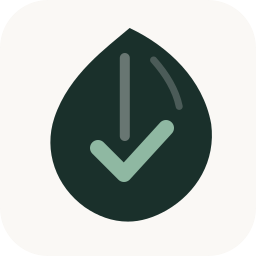
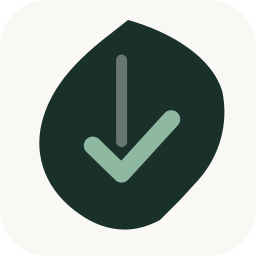
Tighten journey friction, pack review checklist, verify paste, and leaf mark.
Save/resume drafts mid-flow, clarify policy include vs skip, and make the mulberry check read as the vein ending at favicon size.

diff --git a/verify.html b/verify.html
@@ -18,7 +18,7 @@
 <header class="site-header">
   <div class="container-wide">
     <a class="wordmark" href="/">
-      <svg class="logo-mark" viewBox="0 0 32 32" aria-hidden="true" fill="none"><path d="M16.2 2.8c-2.8 2.4-7.6 5.8-9.4 11.2-1.4 4.2.2 8.6 3.8 11.2 1.6 1.1 3.4 1.8 5.4 1.8 1.6 0 3.2-.5 4.8-1.4 3.8-2.2 6.2-6.2 5.6-10.8C25.6 9.2 21.2 5.2 16.2 2.8z" fill="currentColor"/><path d="M15.6 7.2v9.6" stroke="currentColor" stroke-width="1.4" stroke-linecap="round" opacity="0.35"/><path class="logo-check" d="M12.2 17.6l3.2 3.2 5.2-5.6" stroke-width="2.2" stroke-linecap="round" stroke-linejoin="round"/></svg>
+      <svg class="logo-mark" viewBox="0 0 32 32" aria-hidden="true" fill="none"><path d="M16 2.5c-3.2 2.6-8.8 6.2-10.6 12.2-1.5 5 .6 9.4 4.6 12.1 1.7 1.2 3.6 1.9 5.6 1.9 1.4 0 2.9-.4 4.4-1.2L22.5 25l2.2-2.4c2.8-3.1 3.9-7.2 3.1-11.1C26.6 7.2 21.4 4 16 2.5z" fill="currentColor"/><path d="M15.2 7.5v10.2" stroke="currentColor" stroke-width="1.4" stroke-linecap="round" opacity="0.35"/><path class="logo-check" d="M11.6 18.2l3.6 3.5 6.2-6.8" stroke-width="2.4" stroke-linecap="round" stroke-linejoin="round"/></svg>
       <span class="wordmark-text">Morea<span class="article4">Evidence Pack</span></span>
     </a>
     <nav class="site-nav">
@@ -38,6 +38,9 @@
       <p style="margin:0;">Drop <code>evidence-pack.json</code> here, or choose a file</p>
       <input type="file" id="pack-file" accept="application/json,.json">
     </div>
+    <label for="pack-paste" style="margin-top:16px;display:block;">Or paste JSON</label>
+    <textarea id="pack-paste" rows="6" placeholder='{ "product": "Morea Evidence Pack", ... }' style="width:100%;font-family:var(--mono);font-size:0.78rem;"></textarea>
+    <button type="button" class="btn btn-secondary" id="paste-verify" style="margin-top:10px;">Verify pasted JSON</button>
     <p class="faint">Runs entirely in your browser. No upload to a server.</p>
   </div>
 
@@ -53,7 +56,7 @@
 
 <footer class="site-footer">
   <div class="container-wide site-footer-bar">
-    <a class="footer-mark" href="/"><svg class="logo-mark" viewBox="0 0 32 32" aria-hidden="true" fill="none"><path d="M16.2 2.8c-2.8 2.4-7.6 5.8-9.4 11.2-1.4 4.2.2 8.6 3.8 11.2 1.6 1.1 3.4 1.8 5.4 1.8 1.6 0 3.2-.5 4.8-1.4 3.8-2.2 6.2-6.2 5.6-10.8C25.6 9.2 21.2 5.2 16.2 2.8z" fill="currentColor"/><path d="M15.6 7.2v9.6" stroke="currentColor" stroke-width="1.4" stroke-linecap="round" opacity="0.35"/><path class="logo-check" d="M12.2 17.6l3.2 3.2 5.2-5.6" stroke-width="2.2" stroke-linecap="round" stroke-linejoin="round"/></svg>Morea</a>
+    <a class="footer-mark" href="/"><svg class="logo-mark" viewBox="0 0 32 32" aria-hidden="true" fill="none"><path d="M16 2.5c-3.2 2.6-8.8 6.2-10.6 12.2-1.5 5 .6 9.4 4.6 12.1 1.7 1.2 3.6 1.9 5.6 1.9 1.4 0 2.9-.4 4.4-1.2L22.5 25l2.2-2.4c2.8-3.1 3.9-7.2 3.1-11.1C26.6 7.2 21.4 4 16 2.5z" fill="currentColor"/><path d="M15.2 7.5v10.2" stroke="currentColor" stroke-width="1.4" stroke-linecap="round" opacity="0.35"/><path class="logo-check" d="M11.6 18.2l3.6 3.5 6.2-6.8" stroke-width="2.4" stroke-linecap="round" stroke-linejoin="round"/></svg>Morea</a>
     <p class="footer-status">Personal reskilling project · Non-commercial · Not a product for sale · No accounts / no billing</p>
     <nav class="footer-links">
       <a href="/terms.html">Terms</a>
@@ -89,11 +92,28 @@ fileInput.addEventListener("change", function (e) {
   if (file) verifyFile(file);
 });
 
+document.getElementById("paste-verify").addEventListener("click", function () {
+  const text = document.getElementById("pack-paste").value.trim();
+  if (!text) return;
+  verifyText(text);
+});
+
 async function verifyFile(file) {
   resultEl.style.display = "block";
   resultEl.innerHTML = '<div class="dossier">Checking file&hellip;</div>';
   try {
     const text = await file.text();
+    await verifyText(text);
+  } catch (err) {
+    resultEl.innerHTML =
+      '<div class="dossier notice notice-error verify-result-invalid">Could not read that file.</div>';
+  }
+}
+
+async function verifyText(text) {
+  resultEl.style.display = "block";
+  resultEl.innerHTML = '<div class="dossier">Checking&hellip;</div>';
+  try {
     const pack = JSON.parse(text);
     const code = pack.verification_code;
     const hashStored = pack.content_hash;
@@ -157,7 +177,7 @@ async function verifyFile(file) {
     });
   } catch (err) {
     resultEl.innerHTML =
-      '<div class="dossier notice notice-error verify-result-invalid">Could not parse that file as a Morea Evidence Pack.</div>';
+      '<div class="dossier notice notice-error verify-result-invalid">Could not parse that as a Morea Evidence Pack.</div>';
   }
 }
 

diff --git a/assess.html b/assess.html
@@ -18,7 +18,7 @@
 <header class="site-header">
   <div class="container-wide">
     <a class="wordmark" href="/">
-      <svg class="logo-mark" viewBox="0 0 32 32" aria-hidden="true" fill="none"><path d="M16.2 2.8c-2.8 2.4-7.6 5.8-9.4 11.2-1.4 4.2.2 8.6 3.8 11.2 1.6 1.1 3.4 1.8 5.4 1.8 1.6 0 3.2-.5 4.8-1.4 3.8-2.2 6.2-6.2 5.6-10.8C25.6 9.2 21.2 5.2 16.2 2.8z" fill="currentColor"/><path d="M15.6 7.2v9.6" stroke="currentColor" stroke-width="1.4" stroke-linecap="round" opacity="0.35"/><path class="logo-check" d="M12.2 17.6l3.2 3.2 5.2-5.6" stroke-width="2.2" stroke-linecap="round" stroke-linejoin="round"/></svg>
+      <svg class="logo-mark" viewBox="0 0 32 32" aria-hidden="true" fill="none"><path d="M16 2.5c-3.2 2.6-8.8 6.2-10.6 12.2-1.5 5 .6 9.4 4.6 12.1 1.7 1.2 3.6 1.9 5.6 1.9 1.4 0 2.9-.4 4.4-1.2L22.5 25l2.2-2.4c2.8-3.1 3.9-7.2 3.1-11.1C26.6 7.2 21.4 4 16 2.5z" fill="currentColor"/><path d="M15.2 7.5v10.2" stroke="currentColor" stroke-width="1.4" stroke-linecap="round" opacity="0.35"/><path class="logo-check" d="M11.6 18.2l3.6 3.5 6.2-6.8" stroke-width="2.4" stroke-linecap="round" stroke-linejoin="round"/></svg>
       <span class="wordmark-text">Morea<span class="article4">Evidence Pack</span></span>
     </a>
     <nav class="site-nav">
@@ -42,7 +42,7 @@
 
 <footer class="site-footer">
     <div class="container-wide site-footer-bar">
-    <a class="footer-mark" href="/"><svg class="logo-mark" viewBox="0 0 32 32" aria-hidden="true" fill="none"><path d="M16.2 2.8c-2.8 2.4-7.6 5.8-9.4 11.2-1.4 4.2.2 8.6 3.8 11.2 1.6 1.1 3.4 1.8 5.4 1.8 1.6 0 3.2-.5 4.8-1.4 3.8-2.2 6.2-6.2 5.6-10.8C25.6 9.2 21.2 5.2 16.2 2.8z" fill="currentColor"/><path d="M15.6 7.2v9.6" stroke="currentColor" stroke-width="1.4" stroke-linecap="round" opacity="0.35"/><path class="logo-check" d="M12.2 17.6l3.2 3.2 5.2-5.6" stroke-width="2.2" stroke-linecap="round" stroke-linejoin="round"/></svg>Morea</a>
+    <a class="footer-mark" href="/"><svg class="logo-mark" viewBox="0 0 32 32" aria-hidden="true" fill="none"><path d="M16 2.5c-3.2 2.6-8.8 6.2-10.6 12.2-1.5 5 .6 9.4 4.6 12.1 1.7 1.2 3.6 1.9 5.6 1.9 1.4 0 2.9-.4 4.4-1.2L22.5 25l2.2-2.4c2.8-3.1 3.9-7.2 3.1-11.1C26.6 7.2 21.4 4 16 2.5z" fill="currentColor"/><path d="M15.2 7.5v10.2" stroke="currentColor" stroke-width="1.4" stroke-linecap="round" opacity="0.35"/><path class="logo-check" d="M11.6 18.2l3.6 3.5 6.2-6.8" stroke-width="2.4" stroke-linecap="round" stroke-linejoin="round"/></svg>Morea</a>
     <p class="footer-status">Personal reskilling project · Non-commercial · Not a product for sale · No accounts / no billing</p>
     <nav class="footer-links">
       <a href="/terms.html">Terms</a>
@@ -94,6 +94,29 @@ MOREA_QUESTIONS.forEach((q, qi) => {
   form.appendChild(fieldset);
 });
 
+const draft = MoreaStore.getJSON("intake_draft") || MoreaStore.getJSON("intake");
+if (draft && draft.answers) {
+  MOREA_QUESTIONS.forEach((q) => {
+    const val = draft.answers[q.id];
+    if (!val) return;
+    const input = form.querySelector('input[name="' + q.id + '"][value="' + val + '"]');
+    if (input) input.checked = true;
+  });
+}
+
+document.addEventListener("morea:save", function (ev) {
+  const data = new FormData(form);
+  const answers = {};
+  let any = false;
+  for (const q of MOREA_QUESTIONS) {
+    answers[q.id] = data.get(q.id);
+    if (answers[q.id]) any = true;
+  }
+  if (!any) return;
+  MoreaStore.setJSON("intake_draft", { answers: answers, savedAt: new Date().toISOString() });
+  if (ev.detail && ev.detail.handled) ev.detail.handled.ok = true;
+});
+
 form.addEventListener("submit", (e) => {
   e.preventDefault();
   const data = new FormData(form);
@@ -102,6 +125,7 @@ form.addEventListener("submit", (e) => {
 
   const result = moreaClassify(answers);
   MoreaStore.setJSON("intake", result);
+  MoreaStore.remove("intake_draft");
 
   const resultEl = document.getElementById("result");
   resultEl.style.display = "block";

diff --git a/policy.html b/policy.html
@@ -17,7 +17,7 @@
 <header class="site-header">
   <div class="container-wide">
     <a class="wordmark" href="/">
-      <svg class="logo-mark" viewBox="0 0 32 32" aria-hidden="true" fill="none"><path d="M16.2 2.8c-2.8 2.4-7.6 5.8-9.4 11.2-1.4 4.2.2 8.6 3.8 11.2 1.6 1.1 3.4 1.8 5.4 1.8 1.6 0 3.2-.5 4.8-1.4 3.8-2.2 6.2-6.2 5.6-10.8C25.6 9.2 21.2 5.2 16.2 2.8z" fill="currentColor"/><path d="M15.6 7.2v9.6" stroke="currentColor" stroke-width="1.4" stroke-linecap="round" opacity="0.35"/><path class="logo-check" d="M12.2 17.6l3.2 3.2 5.2-5.6" stroke-width="2.2" stroke-linecap="round" stroke-linejoin="round"/></svg>
+      <svg class="logo-mark" viewBox="0 0 32 32" aria-hidden="true" fill="none"><path d="M16 2.5c-3.2 2.6-8.8 6.2-10.6 12.2-1.5 5 .6 9.4 4.6 12.1 1.7 1.2 3.6 1.9 5.6 1.9 1.4 0 2.9-.4 4.4-1.2L22.5 25l2.2-2.4c2.8-3.1 3.9-7.2 3.1-11.1C26.6 7.2 21.4 4 16 2.5z" fill="currentColor"/><path d="M15.2 7.5v10.2" stroke="currentColor" stroke-width="1.4" stroke-linecap="round" opacity="0.35"/><path class="logo-check" d="M11.6 18.2l3.6 3.5 6.2-6.8" stroke-width="2.4" stroke-linecap="round" stroke-linejoin="round"/></svg>
       <span class="wordmark-text">Morea<span class="article4">Evidence Pack</span></span>
     </a>
     <nav class="site-nav">
@@ -34,12 +34,12 @@
   <p class="step-what">Draft a short internal note, or skip — your Evidence Pack still works.</p>
   <p class="step-next">Next: Evidence Pack export</p>
   <div id="policy-content">Preparing draft&hellip;</div>
-  <div id="morea-flow-nav" data-back="/quiz.html" data-continue="/register.html" data-continue-label="Skip to Evidence Pack"></div>
+  <div id="morea-flow-nav" data-back="/quiz.html" data-continue="/register.html" data-continue-label="Include in Evidence Pack"></div>
 </main>
 
 <footer class="site-footer">
     <div class="container-wide site-footer-bar">
-    <a class="footer-mark" href="/"><svg class="logo-mark" viewBox="0 0 32 32" aria-hidden="true" fill="none"><path d="M16.2 2.8c-2.8 2.4-7.6 5.8-9.4 11.2-1.4 4.2.2 8.6 3.8 11.2 1.6 1.1 3.4 1.8 5.4 1.8 1.6 0 3.2-.5 4.8-1.4 3.8-2.2 6.2-6.2 5.6-10.8C25.6 9.2 21.2 5.2 16.2 2.8z" fill="currentColor"/><path d="M15.6 7.2v9.6" stroke="currentColor" stroke-width="1.4" stroke-linecap="round" opacity="0.35"/><path class="logo-check" d="M12.2 17.6l3.2 3.2 5.2-5.6" stroke-width="2.2" stroke-linecap="round" stroke-linejoin="round"/></svg>Morea</a>
+    <a class="footer-mark" href="/"><svg class="logo-mark" viewBox="0 0 32 32" aria-hidden="true" fill="none"><path d="M16 2.5c-3.2 2.6-8.8 6.2-10.6 12.2-1.5 5 .6 9.4 4.6 12.1 1.7 1.2 3.6 1.9 5.6 1.9 1.4 0 2.9-.4 4.4-1.2L22.5 25l2.2-2.4c2.8-3.1 3.9-7.2 3.1-11.1C26.6 7.2 21.4 4 16 2.5z" fill="currentColor"/><path d="M15.2 7.5v10.2" stroke="currentColor" stroke-width="1.4" stroke-linecap="round" opacity="0.35"/><path class="logo-check" d="M11.6 18.2l3.6 3.5 6.2-6.8" stroke-width="2.4" stroke-linecap="round" stroke-linejoin="round"/></svg>Morea</a>
     <p class="footer-status">Personal reskilling project · Non-commercial · Not a product for sale · No accounts / no billing</p>
     <nav class="footer-links">
       <a href="/terms.html">Terms</a>

diff --git a/register.html b/register.html
@@ -16,7 +16,7 @@
 <header class="site-header">
   <div class="container-wide">
     <a class="wordmark" href="/">
-      <svg class="logo-mark" viewBox="0 0 32 32" aria-hidden="true" fill="none"><path d="M16.2 2.8c-2.8 2.4-7.6 5.8-9.4 11.2-1.4 4.2.2 8.6 3.8 11.2 1.6 1.1 3.4 1.8 5.4 1.8 1.6 0 3.2-.5 4.8-1.4 3.8-2.2 6.2-6.2 5.6-10.8C25.6 9.2 21.2 5.2 16.2 2.8z" fill="currentColor"/><path d="M15.6 7.2v9.6" stroke="currentColor" stroke-width="1.4" stroke-linecap="round" opacity="0.35"/><path class="logo-check" d="M12.2 17.6l3.2 3.2 5.2-5.6" stroke-width="2.2" stroke-linecap="round" stroke-linejoin="round"/></svg>
+      <svg class="logo-mark" viewBox="0 0 32 32" aria-hidden="true" fill="none"><path d="M16 2.5c-3.2 2.6-8.8 6.2-10.6 12.2-1.5 5 .6 9.4 4.6 12.1 1.7 1.2 3.6 1.9 5.6 1.9 1.4 0 2.9-.4 4.4-1.2L22.5 25l2.2-2.4c2.8-3.1 3.9-7.2 3.1-11.1C26.6 7.2 21.4 4 16 2.5z" fill="currentColor"/><path d="M15.2 7.5v10.2" stroke="currentColor" stroke-width="1.4" stroke-linecap="round" opacity="0.35"/><path class="logo-check" d="M11.6 18.2l3.6 3.5 6.2-6.8" stroke-width="2.4" stroke-linecap="round" stroke-linejoin="round"/></svg>
       <span class="wordmark-text">Morea<span class="article4">Evidence Pack</span></span>
     </a>
     <nav class="site-nav no-print">
@@ -36,7 +36,7 @@
 
 <footer class="site-footer no-print">
   <div class="container-wide site-footer-bar">
-    <a class="footer-mark" href="/"><svg class="logo-mark" viewBox="0 0 32 32" aria-hidden="true" fill="none"><path d="M16.2 2.8c-2.8 2.4-7.6 5.8-9.4 11.2-1.4 4.2.2 8.6 3.8 11.2 1.6 1.1 3.4 1.8 5.4 1.8 1.6 0 3.2-.5 4.8-1.4 3.8-2.2 6.2-6.2 5.6-10.8C25.6 9.2 21.2 5.2 16.2 2.8z" fill="currentColor"/><path d="M15.6 7.2v9.6" stroke="currentColor" stroke-width="1.4" stroke-linecap="round" opacity="0.35"/><path class="logo-check" d="M12.2 17.6l3.2 3.2 5.2-5.6" stroke-width="2.2" stroke-linecap="round" stroke-linejoin="round"/></svg>Morea</a>
+    <a class="footer-mark" href="/"><svg class="logo-mark" viewBox="0 0 32 32" aria-hidden="true" fill="none"><path d="M16 2.5c-3.2 2.6-8.8 6.2-10.6 12.2-1.5 5 .6 9.4 4.6 12.1 1.7 1.2 3.6 1.9 5.6 1.9 1.4 0 2.9-.4 4.4-1.2L22.5 25l2.2-2.4c2.8-3.1 3.9-7.2 3.1-11.1C26.6 7.2 21.4 4 16 2.5z" fill="currentColor"/><path d="M15.2 7.5v10.2" stroke="currentColor" stroke-width="1.4" stroke-linecap="round" opacity="0.35"/><path class="logo-check" d="M11.6 18.2l3.6 3.5 6.2-6.8" stroke-width="2.4" stroke-linecap="round" stroke-linejoin="round"/></svg>Morea</a>
     <p class="footer-status">Personal reskilling project · Non-commercial · Not a product for sale · No accounts / no billing</p>
     <nav class="footer-links">
       <a href="/terms.html">Terms</a>

diff --git a/index.html b/index.html
@@ -66,7 +66,7 @@
 <header class="site-header">
   <div class="container-wide">
     <a class="wordmark" href="/">
-      <svg class="logo-mark" viewBox="0 0 32 32" aria-hidden="true" fill="none"><path d="M16.2 2.8c-2.8 2.4-7.6 5.8-9.4 11.2-1.4 4.2.2 8.6 3.8 11.2 1.6 1.1 3.4 1.8 5.4 1.8 1.6 0 3.2-.5 4.8-1.4 3.8-2.2 6.2-6.2 5.6-10.8C25.6 9.2 21.2 5.2 16.2 2.8z" fill="currentColor"/><path d="M15.6 7.2v9.6" stroke="currentColor" stroke-width="1.4" stroke-linecap="round" opacity="0.35"/><path class="logo-check" d="M12.2 17.6l3.2 3.2 5.2-5.6" stroke-width="2.2" stroke-linecap="round" stroke-linejoin="round"/></svg>
+      <svg class="logo-mark" viewBox="0 0 32 32" aria-hidden="true" fill="none"><path d="M16 2.5c-3.2 2.6-8.8 6.2-10.6 12.2-1.5 5 .6 9.4 4.6 12.1 1.7 1.2 3.6 1.9 5.6 1.9 1.4 0 2.9-.4 4.4-1.2L22.5 25l2.2-2.4c2.8-3.1 3.9-7.2 3.1-11.1C26.6 7.2 21.4 4 16 2.5z" fill="currentColor"/><path d="M15.2 7.5v10.2" stroke="currentColor" stroke-width="1.4" stroke-linecap="round" opacity="0.35"/><path class="logo-check" d="M11.6 18.2l3.6 3.5 6.2-6.8" stroke-width="2.4" stroke-linecap="round" stroke-linejoin="round"/></svg>
       <span class="wordmark-text">Morea<span class="article4">Evidence Pack</span></span>
     </a>
     <nav class="site-nav">
@@ -168,7 +168,7 @@
 
 <footer class="site-footer">
     <div class="container-wide site-footer-bar">
-    <a class="footer-mark" href="/"><svg class="logo-mark" viewBox="0 0 32 32" aria-hidden="true" fill="none"><path d="M16.2 2.8c-2.8 2.4-7.6 5.8-9.4 11.2-1.4 4.2.2 8.6 3.8 11.2 1.6 1.1 3.4 1.8 5.4 1.8 1.6 0 3.2-.5 4.8-1.4 3.8-2.2 6.2-6.2 5.6-10.8C25.6 9.2 21.2 5.2 16.2 2.8z" fill="currentColor"/><path d="M15.6 7.2v9.6" stroke="currentColor" stroke-width="1.4" stroke-linecap="round" opacity="0.35"/><path class="logo-check" d="M12.2 17.6l3.2 3.2 5.2-5.6" stroke-width="2.2" stroke-linecap="round" stroke-linejoin="round"/></svg>Morea</a>
+    <a class="footer-mark" href="/"><svg class="logo-mark" viewBox="0 0 32 32" aria-hidden="true" fill="none"><path d="M16 2.5c-3.2 2.6-8.8 6.2-10.6 12.2-1.5 5 .6 9.4 4.6 12.1 1.7 1.2 3.6 1.9 5.6 1.9 1.4 0 2.9-.4 4.4-1.2L22.5 25l2.2-2.4c2.8-3.1 3.9-7.2 3.1-11.1C26.6 7.2 21.4 4 16 2.5z" fill="currentColor"/><path d="M15.2 7.5v10.2" stroke="currentColor" stroke-width="1.4" stroke-linecap="round" opacity="0.35"/><path class="logo-check" d="M11.6 18.2l3.6 3.5 6.2-6.8" stroke-width="2.4" stroke-linecap="round" stroke-linejoin="round"/></svg>Morea</a>
     <p class="footer-status">Personal reskilling project · Non-commercial · Not a product for sale · No accounts / no billing</p>
     <nav class="footer-links">
       <a href="/terms.html">Terms</a>

diff --git a/login.html b/login.html
@@ -17,7 +17,7 @@
 <header class="site-header">
   <div class="container-wide">
     <a class="wordmark" href="/">
-      <svg class="logo-mark" viewBox="0 0 32 32" aria-hidden="true" fill="none"><path d="M16.2 2.8c-2.8 2.4-7.6 5.8-9.4 11.2-1.4 4.2.2 8.6 3.8 11.2 1.6 1.1 3.4 1.8 5.4 1.8 1.6 0 3.2-.5 4.8-1.4 3.8-2.2 6.2-6.2 5.6-10.8C25.6 9.2 21.2 5.2 16.2 2.8z" fill="currentColor"/><path d="M15.6 7.2v9.6" stroke="currentColor" stroke-width="1.4" stroke-linecap="round" opacity="0.35"/><path class="logo-check" d="M12.2 17.6l3.2 3.2 5.2-5.6" stroke-width="2.2" stroke-linecap="round" stroke-linejoin="round"/></svg>
+      <svg class="logo-mark" viewBox="0 0 32 32" aria-hidden="true" fill="none"><path d="M16 2.5c-3.2 2.6-8.8 6.2-10.6 12.2-1.5 5 .6 9.4 4.6 12.1 1.7 1.2 3.6 1.9 5.6 1.9 1.4 0 2.9-.4 4.4-1.2L22.5 25l2.2-2.4c2.8-3.1 3.9-7.2 3.1-11.1C26.6 7.2 21.4 4 16 2.5z" fill="currentColor"/><path d="M15.2 7.5v10.2" stroke="currentColor" stroke-width="1.4" stroke-linecap="round" opacity="0.35"/><path class="logo-check" d="M11.6 18.2l3.6 3.5 6.2-6.8" stroke-width="2.4" stroke-linecap="round" stroke-linejoin="round"/></svg>
       <span class="wordmark-text">Morea<span class="article4">Evidence Pack</span></span>
     </a>
     <nav class="site-nav">
@@ -48,7 +48,7 @@
 
 <footer class="site-footer">
     <div class="container-wide site-footer-bar">
-    <a class="footer-mark" href="/"><svg class="logo-mark" viewBox="0 0 32 32" aria-hidden="true" fill="none"><path d="M16.2 2.8c-2.8 2.4-7.6 5.8-9.4 11.2-1.4 4.2.2 8.6 3.8 11.2 1.6 1.1 3.4 1.8 5.4 1.8 1.6 0 3.2-.5 4.8-1.4 3.8-2.2 6.2-6.2 5.6-10.8C25.6 9.2 21.2 5.2 16.2 2.8z" fill="currentColor"/><path d="M15.6 7.2v9.6" stroke="currentColor" stroke-width="1.4" stroke-linecap="round" opacity="0.35"/><path class="logo-check" d="M12.2 17.6l3.2 3.2 5.2-5.6" stroke-width="2.2" stroke-linecap="round" stroke-linejoin="round"/></svg>Morea</a>
+    <a class="footer-mark" href="/"><svg class="logo-mark" viewBox="0 0 32 32" aria-hidden="true" fill="none"><path d="M16 2.5c-3.2 2.6-8.8 6.2-10.6 12.2-1.5 5 .6 9.4 4.6 12.1 1.7 1.2 3.6 1.9 5.6 1.9 1.4 0 2.9-.4 4.4-1.2L22.5 25l2.2-2.4c2.8-3.1 3.9-7.2 3.1-11.1C26.6 7.2 21.4 4 16 2.5z" fill="currentColor"/><path d="M15.2 7.5v10.2" stroke="currentColor" stroke-width="1.4" stroke-linecap="round" opacity="0.35"/><path class="logo-check" d="M11.6 18.2l3.6 3.5 6.2-6.8" stroke-width="2.4" stroke-linecap="round" stroke-linejoin="round"/></svg>Morea</a>
     <p class="footer-status">Personal reskilling project · Non-commercial · Not a product for sale · No accounts / no billing</p>
     <nav class="footer-links">
       <a href="/terms.html">Terms</a>

diff --git a/module.html b/module.html
@@ -16,7 +16,7 @@
 <header class="site-header">
   <div class="container-wide">
     <a class="wordmark" href="/">
-      <svg class="logo-mark" viewBox="0 0 32 32" aria-hidden="true" fill="none"><path d="M16.2 2.8c-2.8 2.4-7.6 5.8-9.4 11.2-1.4 4.2.2 8.6 3.8 11.2 1.6 1.1 3.4 1.8 5.4 1.8 1.6 0 3.2-.5 4.8-1.4 3.8-2.2 6.2-6.2 5.6-10.8C25.6 9.2 21.2 5.2 16.2 2.8z" fill="currentColor"/><path d="M15.6 7.2v9.6" stroke="currentColor" stroke-width="1.4" stroke-linecap="round" opacity="0.35"/><path class="logo-check" d="M12.2 17.6l3.2 3.2 5.2-5.6" stroke-width="2.2" stroke-linecap="round" stroke-linejoin="round"/></svg>
+      <svg class="logo-mark" viewBox="0 0 32 32" aria-hidden="true" fill="none"><path d="M16 2.5c-3.2 2.6-8.8 6.2-10.6 12.2-1.5 5 .6 9.4 4.6 12.1 1.7 1.2 3.6 1.9 5.6 1.9 1.4 0 2.9-.4 4.4-1.2L22.5 25l2.2-2.4c2.8-3.1 3.9-7.2 3.1-11.1C26.6 7.2 21.4 4 16 2.5z" fill="currentColor"/><path d="M15.2 7.5v10.2" stroke="currentColor" stroke-width="1.4" stroke-linecap="round" opacity="0.35"/><path class="logo-check" d="M11.6 18.2l3.6 3.5 6.2-6.8" stroke-width="2.4" stroke-linecap="round" stroke-linejoin="round"/></svg>
       <span class="wordmark-text">Morea<span class="article4">Evidence Pack</span></span>
     </a>
     <nav class="site-nav">
@@ -41,7 +41,7 @@
 
 <footer class="site-footer">
     <div class="container-wide site-footer-bar">
-    <a class="footer-mark" href="/"><svg class="logo-mark" viewBox="0 0 32 32" aria-hidden="true" fill="none"><path d="M16.2 2.8c-2.8 2.4-7.6 5.8-9.4 11.2-1.4 4.2.2 8.6 3.8 11.2 1.6 1.1 3.4 1.8 5.4 1.8 1.6 0 3.2-.5 4.8-1.4 3.8-2.2 6.2-6.2 5.6-10.8C25.6 9.2 21.2 5.2 16.2 2.8z" fill="currentColor"/><path d="M15.6 7.2v9.6" stroke="currentColor" stroke-width="1.4" stroke-linecap="round" opacity="0.35"/><path class="logo-check" d="M12.2 17.6l3.2 3.2 5.2-5.6" stroke-width="2.2" stroke-linecap="round" stroke-linejoin="round"/></svg>Morea</a>
+    <a class="footer-mark" href="/"><svg class="logo-mark" viewBox="0 0 32 32" aria-hidden="true" fill="none"><path d="M16 2.5c-3.2 2.6-8.8 6.2-10.6 12.2-1.5 5 .6 9.4 4.6 12.1 1.7 1.2 3.6 1.9 5.6 1.9 1.4 0 2.9-.4 4.4-1.2L22.5 25l2.2-2.4c2.8-3.1 3.9-7.2 3.1-11.1C26.6 7.2 21.4 4 16 2.5z" fill="currentColor"/><path d="M15.2 7.5v10.2" stroke="currentColor" stroke-width="1.4" stroke-linecap="round" opacity="0.35"/><path class="logo-check" d="M11.6 18.2l3.6 3.5 6.2-6.8" stroke-width="2.4" stroke-linecap="round" stroke-linejoin="round"/></svg>Morea</a>
     <p class="footer-status">Personal reskilling project · Non-commercial · Not a product for sale · No accounts / no billing</p>
     <nav class="footer-links">
       <a href="/terms.html">Terms</a>

diff --git a/privacy.html b/privacy.html
@@ -16,7 +16,7 @@
 <header class="site-header">
   <div class="container-wide">
     <a class="wordmark" href="/">
-      <svg class="logo-mark" viewBox="0 0 32 32" aria-hidden="true" fill="none"><path d="M16.2 2.8c-2.8 2.4-7.6 5.8-9.4 11.2-1.4 4.2.2 8.6 3.8 11.2 1.6 1.1 3.4 1.8 5.4 1.8 1.6 0 3.2-.5 4.8-1.4 3.8-2.2 6.2-6.2 5.6-10.8C25.6 9.2 21.2 5.2 16.2 2.8z" fill="currentColor"/><path d="M15.6 7.2v9.6" stroke="currentColor" stroke-width="1.4" stroke-linecap="round" opacity="0.35"/><path class="logo-check" d="M12.2 17.6l3.2 3.2 5.2-5.6" stroke-width="2.2" stroke-linecap="round" stroke-linejoin="round"/></svg>
+      <svg class="logo-mark" viewBox="0 0 32 32" aria-hidden="true" fill="none"><path d="M16 2.5c-3.2 2.6-8.8 6.2-10.6 12.2-1.5 5 .6 9.4 4.6 12.1 1.7 1.2 3.6 1.9 5.6 1.9 1.4 0 2.9-.4 4.4-1.2L22.5 25l2.2-2.4c2.8-3.1 3.9-7.2 3.1-11.1C26.6 7.2 21.4 4 16 2.5z" fill="currentColor"/><path d="M15.2 7.5v10.2" stroke="currentColor" stroke-width="1.4" stroke-linecap="round" opacity="0.35"/><path class="logo-check" d="M11.6 18.2l3.6 3.5 6.2-6.8" stroke-width="2.4" stroke-linecap="round" stroke-linejoin="round"/></svg>
       <span class="wordmark-text">Morea<span class="article4">Evidence Pack</span></span>
     </a>
     <nav class="site-nav">
@@ -44,7 +44,7 @@
 
 <footer class="site-footer">
     <div class="container-wide site-footer-bar">
-    <a class="footer-mark" href="/"><svg class="logo-mark" viewBox="0 0 32 32" aria-hidden="true" fill="none"><path d="M16.2 2.8c-2.8 2.4-7.6 5.8-9.4 11.2-1.4 4.2.2 8.6 3.8 11.2 1.6 1.1 3.4 1.8 5.4 1.8 1.6 0 3.2-.5 4.8-1.4 3.8-2.2 6.2-6.2 5.6-10.8C25.6 9.2 21.2 5.2 16.2 2.8z" fill="currentColor"/><path d="M15.6 7.2v9.6" stroke="currentColor" stroke-width="1.4" stroke-linecap="round" opacity="0.35"/><path class="logo-check" d="M12.2 17.6l3.2 3.2 5.2-5.6" stroke-width="2.2" stroke-linecap="round" stroke-linejoin="round"/></svg>Morea</a>
+    <a class="footer-mark" href="/"><svg class="logo-mark" viewBox="0 0 32 32" aria-hidden="true" fill="none"><path d="M16 2.5c-3.2 2.6-8.8 6.2-10.6 12.2-1.5 5 .6 9.4 4.6 12.1 1.7 1.2 3.6 1.9 5.6 1.9 1.4 0 2.9-.4 4.4-1.2L22.5 25l2.2-2.4c2.8-3.1 3.9-7.2 3.1-11.1C26.6 7.2 21.4 4 16 2.5z" fill="currentColor"/><path d="M15.2 7.5v10.2" stroke="currentColor" stroke-width="1.4" stroke-linecap="round" opacity="0.35"/><path class="logo-check" d="M11.6 18.2l3.6 3.5 6.2-6.8" stroke-width="2.4" stroke-linecap="round" stroke-linejoin="round"/></svg>Morea</a>
     <p class="footer-status">Personal reskilling project · Non-commercial · Not a product for sale · No accounts / no billing</p>
     <nav class="footer-links">
       <a href="/terms.html">Terms</a>

diff --git a/signup.html b/signup.html
@@ -19,7 +19,7 @@
 <header class="site-header">
   <div class="container-wide">
     <a class="wordmark" href="/">
-      <svg class="logo-mark" viewBox="0 0 32 32" aria-hidden="true" fill="none"><path d="M16.2 2.8c-2.8 2.4-7.6 5.8-9.4 11.2-1.4 4.2.2 8.6 3.8 11.2 1.6 1.1 3.4 1.8 5.4 1.8 1.6 0 3.2-.5 4.8-1.4 3.8-2.2 6.2-6.2 5.6-10.8C25.6 9.2 21.2 5.2 16.2 2.8z" fill="currentColor"/><path d="M15.6 7.2v9.6" stroke="currentColor" stroke-width="1.4" stroke-linecap="round" opacity="0.35"/><path class="logo-check" d="M12.2 17.6l3.2 3.2 5.2-5.6" stroke-width="2.2" stroke-linecap="round" stroke-linejoin="round"/></svg>
+      <svg class="logo-mark" viewBox="0 0 32 32" aria-hidden="true" fill="none"><path d="M16 2.5c-3.2 2.6-8.8 6.2-10.6 12.2-1.5 5 .6 9.4 4.6 12.1 1.7 1.2 3.6 1.9 5.6 1.9 1.4 0 2.9-.4 4.4-1.2L22.5 25l2.2-2.4c2.8-3.1 3.9-7.2 3.1-11.1C26.6 7.2 21.4 4 16 2.5z" fill="currentColor"/><path d="M15.2 7.5v10.2" stroke="currentColor" stroke-width="1.4" stroke-linecap="round" opacity="0.35"/><path class="logo-check" d="M11.6 18.2l3.6 3.5 6.2-6.8" stroke-width="2.4" stroke-linecap="round" stroke-linejoin="round"/></svg>
       <span class="wordmark-text">Morea<span class="article4">Evidence Pack</span></span>
     </a>
     <nav class="site-nav">
@@ -64,7 +64,7 @@
 
 <footer class="site-footer">
     <div class="container-wide site-footer-bar">
-    <a class="footer-mark" href="/"><svg class="logo-mark" viewBox="0 0 32 32" aria-hidden="true" fill="none"><path d="M16.2 2.8c-2.8 2.4-7.6 5.8-9.4 11.2-1.4 4.2.2 8.6 3.8 11.2 1.6 1.1 3.4 1.8 5.4 1.8 1.6 0 3.2-.5 4.8-1.4 3.8-2.2 6.2-6.2 5.6-10.8C25.6 9.2 21.2 5.2 16.2 2.8z" fill="currentColor"/><path d="M15.6 7.2v9.6" stroke="currentColor" stroke-width="1.4" stroke-linecap="round" opacity="0.35"/><path class="logo-check" d="M12.2 17.6l3.2 3.2 5.2-5.6" stroke-width="2.2" stroke-linecap="round" stroke-linejoin="round"/></svg>Morea</a>
+    <a class="footer-mark" href="/"><svg class="logo-mark" viewBox="0 0 32 32" aria-hidden="true" fill="none"><path d="M16 2.5c-3.2 2.6-8.8 6.2-10.6 12.2-1.5 5 .6 9.4 4.6 12.1 1.7 1.2 3.6 1.9 5.6 1.9 1.4 0 2.9-.4 4.4-1.2L22.5 25l2.2-2.4c2.8-3.1 3.9-7.2 3.1-11.1C26.6 7.2 21.4 4 16 2.5z" fill="currentColor"/><path d="M15.2 7.5v10.2" stroke="currentColor" stroke-width="1.4" stroke-linecap="round" opacity="0.35"/><path class="logo-check" d="M11.6 18.2l3.6 3.5 6.2-6.8" stroke-width="2.4" stroke-linecap="round" stroke-linejoin="round"/></svg>Morea</a>
     <p class="footer-status">Personal reskilling project · Non-commercial · Not a product for sale · No accounts / no billing</p>
     <nav class="footer-links">
       <a href="/terms.html">Terms</a>

diff --git a/terms.html b/terms.html
@@ -16,7 +16,7 @@
 <header class="site-header">
   <div class="container-wide">
     <a class="wordmark" href="/">
-      <svg class="logo-mark" viewBox="0 0 32 32" aria-hidden="true" fill="none"><path d="M16.2 2.8c-2.8 2.4-7.6 5.8-9.4 11.2-1.4 4.2.2 8.6 3.8 11.2 1.6 1.1 3.4 1.8 5.4 1.8 1.6 0 3.2-.5 4.8-1.4 3.8-2.2 6.2-6.2 5.6-10.8C25.6 9.2 21.2 5.2 16.2 2.8z" fill="currentColor"/><path d="M15.6 7.2v9.6" stroke="currentColor" stroke-width="1.4" stroke-linecap="round" opacity="0.35"/><path class="logo-check" d="M12.2 17.6l3.2 3.2 5.2-5.6" stroke-width="2.2" stroke-linecap="round" stroke-linejoin="round"/></svg>
+      <svg class="logo-mark" viewBox="0 0 32 32" aria-hidden="true" fill="none"><path d="M16 2.5c-3.2 2.6-8.8 6.2-10.6 12.2-1.5 5 .6 9.4 4.6 12.1 1.7 1.2 3.6 1.9 5.6 1.9 1.4 0 2.9-.4 4.4-1.2L22.5 25l2.2-2.4c2.8-3.1 3.9-7.2 3.1-11.1C26.6 7.2 21.4 4 16 2.5z" fill="currentColor"/><path d="M15.2 7.5v10.2" stroke="currentColor" stroke-width="1.4" stroke-linecap="round" opacity="0.35"/><path class="logo-check" d="M11.6 18.2l3.6 3.5 6.2-6.8" stroke-width="2.4" stroke-linecap="round" stroke-linejoin="round"/></svg>
       <span class="wordmark-text">Morea<span class="article4">Evidence Pack</span></span>
     </a>
     <nav class="site-nav">
@@ -42,7 +42,7 @@
 
 <footer class="site-footer">
     <div class="container-wide site-footer-bar">
-    <a class="footer-mark" href="/"><svg class="logo-mark" viewBox="0 0 32 32" aria-hidden="true" fill="none"><path d="M16.2 2.8c-2.8 2.4-7.6 5.8-9.4 11.2-1.4 4.2.2 8.6 3.8 11.2 1.6 1.1 3.4 1.8 5.4 1.8 1.6 0 3.2-.5 4.8-1.4 3.8-2.2 6.2-6.2 5.6-10.8C25.6 9.2 21.2 5.2 16.2 2.8z" fill="currentColor"/><path d="M15.6 7.2v9.6" stroke="currentColor" stroke-width="1.4" stroke-linecap="round" opacity="0.35"/><path class="logo-check" d="M12.2 17.6l3.2 3.2 5.2-5.6" stroke-width="2.2" stroke-linecap="round" stroke-linejoin="round"/></svg>Morea</a>
+    <a class="footer-mark" href="/"><svg class="logo-mark" viewBox="0 0 32 32" aria-hidden="true" fill="none"><path d="M16 2.5c-3.2 2.6-8.8 6.2-10.6 12.2-1.5 5 .6 9.4 4.6 12.1 1.7 1.2 3.6 1.9 5.6 1.9 1.4 0 2.9-.4 4.4-1.2L22.5 25l2.2-2.4c2.8-3.1 3.9-7.2 3.1-11.1C26.6 7.2 21.4 4 16 2.5z" fill="currentColor"/><path d="M15.2 7.5v10.2" stroke="currentColor" stroke-width="1.4" stroke-linecap="round" opacity="0.35"/><path class="logo-check" d="M11.6 18.2l3.6 3.5 6.2-6.8" stroke-width="2.4" stroke-linecap="round" stroke-linejoin="round"/></svg>Morea</a>
     <p class="footer-status">Personal reskilling project · Non-commercial · Not a product for sale · No accounts / no billing</p>
     <nav class="footer-links">
       <a href="/terms.html">Terms</a>

diff --git a/workspace.html b/workspace.html
@@ -17,7 +17,7 @@
 <header class="site-header">
   <div class="container-wide">
     <a class="wordmark" href="/">
-      <svg class="logo-mark" viewBox="0 0 32 32" aria-hidden="true" fill="none"><path d="M16.2 2.8c-2.8 2.4-7.6 5.8-9.4 11.2-1.4 4.2.2 8.6 3.8 11.2 1.6 1.1 3.4 1.8 5.4 1.8 1.6 0 3.2-.5 4.8-1.4 3.8-2.2 6.2-6.2 5.6-10.8C25.6 9.2 21.2 5.2 16.2 2.8z" fill="currentColor"/><path d="M15.6 7.2v9.6" stroke="currentColor" stroke-width="1.4" stroke-linecap="round" opacity="0.35"/><path class="logo-check" d="M12.2 17.6l3.2 3.2 5.2-5.6" stroke-width="2.2" stroke-linecap="round" stroke-linejoin="round"/></svg>
+      <svg class="logo-mark" viewBox="0 0 32 32" aria-hidden="true" fill="none"><path d="M16 2.5c-3.2 2.6-8.8 6.2-10.6 12.2-1.5 5 .6 9.4 4.6 12.1 1.7 1.2 3.6 1.9 5.6 1.9 1.4 0 2.9-.4 4.4-1.2L22.5 25l2.2-2.4c2.8-3.1 3.9-7.2 3.1-11.1C26.6 7.2 21.4 4 16 2.5z" fill="currentColor"/><path d="M15.2 7.5v10.2" stroke="currentColor" stroke-width="1.4" stroke-linecap="round" opacity="0.35"/><path class="logo-check" d="M11.6 18.2l3.6 3.5 6.2-6.8" stroke-width="2.4" stroke-linecap="round" stroke-linejoin="round"/></svg>
       <span class="wordmark-text">Morea<span class="article4">Evidence Pack</span></span>
     </a>
     <nav class="site-nav">
@@ -33,7 +33,7 @@
 
 <footer class="site-footer">
     <div class="container-wide site-footer-bar">
-    <a class="footer-mark" href="/"><svg class="logo-mark" viewBox="0 0 32 32" aria-hidden="true" fill="none"><path d="M16.2 2.8c-2.8 2.4-7.6 5.8-9.4 11.2-1.4 4.2.2 8.6 3.8 11.2 1.6 1.1 3.4 1.8 5.4 1.8 1.6 0 3.2-.5 4.8-1.4 3.8-2.2 6.2-6.2 5.6-10.8C25.6 9.2 21.2 5.2 16.2 2.8z" fill="currentColor"/><path d="M15.6 7.2v9.6" stroke="currentColor" stroke-width="1.4" stroke-linecap="round" opacity="0.35"/><path class="logo-check" d="M12.2 17.6l3.2 3.2 5.2-5.6" stroke-width="2.2" stroke-linecap="round" stroke-linejoin="round"/></svg>Morea</a>
+    <a class="footer-mark" href="/"><svg class="logo-mark" viewBox="0 0 32 32" aria-hidden="true" fill="none"><path d="M16 2.5c-3.2 2.6-8.8 6.2-10.6 12.2-1.5 5 .6 9.4 4.6 12.1 1.7 1.2 3.6 1.9 5.6 1.9 1.4 0 2.9-.4 4.4-1.2L22.5 25l2.2-2.4c2.8-3.1 3.9-7.2 3.1-11.1C26.6 7.2 21.4 4 16 2.5z" fill="currentColor"/><path d="M15.2 7.5v10.2" stroke="currentColor" stroke-width="1.4" stroke-linecap="round" opacity="0.35"/><path class="logo-check" d="M11.6 18.2l3.6 3.5 6.2-6.8" stroke-width="2.4" stroke-linecap="round" stroke-linejoin="round"/></svg>Morea</a>
     <p class="footer-status">Personal reskilling project · Non-commercial · Not a product for sale · No accounts / no billing</p>
     <nav class="footer-links">
       <a href="/terms.html">Terms</a>

diff --git a/inventory.html b/inventory.html
@@ -18,7 +18,7 @@
 <header class="site-header">
   <div class="container-wide">
     <a class="wordmark" href="/">
-      <svg class="logo-mark" viewBox="0 0 32 32" aria-hidden="true" fill="none"><path d="M16.2 2.8c-2.8 2.4-7.6 5.8-9.4 11.2-1.4 4.2.2 8.6 3.8 11.2 1.6 1.1 3.4 1.8 5.4 1.8 1.6 0 3.2-.5 4.8-1.4 3.8-2.2 6.2-6.2 5.6-10.8C25.6 9.2 21.2 5.2 16.2 2.8z" fill="currentColor"/><path d="M15.6 7.2v9.6" stroke="currentColor" stroke-width="1.4" stroke-linecap="round" opacity="0.35"/><path class="logo-check" d="M12.2 17.6l3.2 3.2 5.2-5.6" stroke-width="2.2" stroke-linecap="round" stroke-linejoin="round"/></svg>
+      <svg class="logo-mark" viewBox="0 0 32 32" aria-hidden="true" fill="none"><path d="M16 2.5c-3.2 2.6-8.8 6.2-10.6 12.2-1.5 5 .6 9.4 4.6 12.1 1.7 1.2 3.6 1.9 5.6 1.9 1.4 0 2.9-.4 4.4-1.2L22.5 25l2.2-2.4c2.8-3.1 3.9-7.2 3.1-11.1C26.6 7.2 21.4 4 16 2.5z" fill="currentColor"/><path d="M15.2 7.5v10.2" stroke="currentColor" stroke-width="1.4" stroke-linecap="round" opacity="0.35"/><path class="logo-check" d="M11.6 18.2l3.6 3.5 6.2-6.8" stroke-width="2.4" stroke-linecap="round" stroke-linejoin="round"/></svg>
       <span class="wordmark-text">Morea<span class="article4">Evidence Pack</span></span>
     </a>
     <nav class="site-nav">
@@ -44,7 +44,7 @@
 
 <footer class="site-footer">
   <div class="container-wide site-footer-bar">
-    <a class="footer-mark" href="/"><svg class="logo-mark" viewBox="0 0 32 32" aria-hidden="true" fill="none"><path d="M16.2 2.8c-2.8 2.4-7.6 5.8-9.4 11.2-1.4 4.2.2 8.6 3.8 11.2 1.6 1.1 3.4 1.8 5.4 1.8 1.6 0 3.2-.5 4.8-1.4 3.8-2.2 6.2-6.2 5.6-10.8C25.6 9.2 21.2 5.2 16.2 2.8z" fill="currentColor"/><path d="M15.6 7.2v9.6" stroke="currentColor" stroke-width="1.4" stroke-linecap="round" opacity="0.35"/><path class="logo-check" d="M12.2 17.6l3.2 3.2 5.2-5.6" stroke-width="2.2" stroke-linecap="round" stroke-linejoin="round"/></svg>Morea</a>
+    <a class="footer-mark" href="/"><svg class="logo-mark" viewBox="0 0 32 32" aria-hidden="true" fill="none"><path d="M16 2.5c-3.2 2.6-8.8 6.2-10.6 12.2-1.5 5 .6 9.4 4.6 12.1 1.7 1.2 3.6 1.9 5.6 1.9 1.4 0 2.9-.4 4.4-1.2L22.5 25l2.2-2.4c2.8-3.1 3.9-7.2 3.1-11.1C26.6 7.2 21.4 4 16 2.5z" fill="currentColor"/><path d="M15.2 7.5v10.2" stroke="currentColor" stroke-width="1.4" stroke-linecap="round" opacity="0.35"/><path class="logo-check" d="M11.6 18.2l3.6 3.5 6.2-6.8" stroke-width="2.4" stroke-linecap="round" stroke-linejoin="round"/></svg>Morea</a>
     <p class="footer-status">Personal reskilling project · Non-commercial · Not a product for sale · No accounts / no billing</p>
     <nav class="footer-links">
       <a href="/terms.html">Terms</a>
